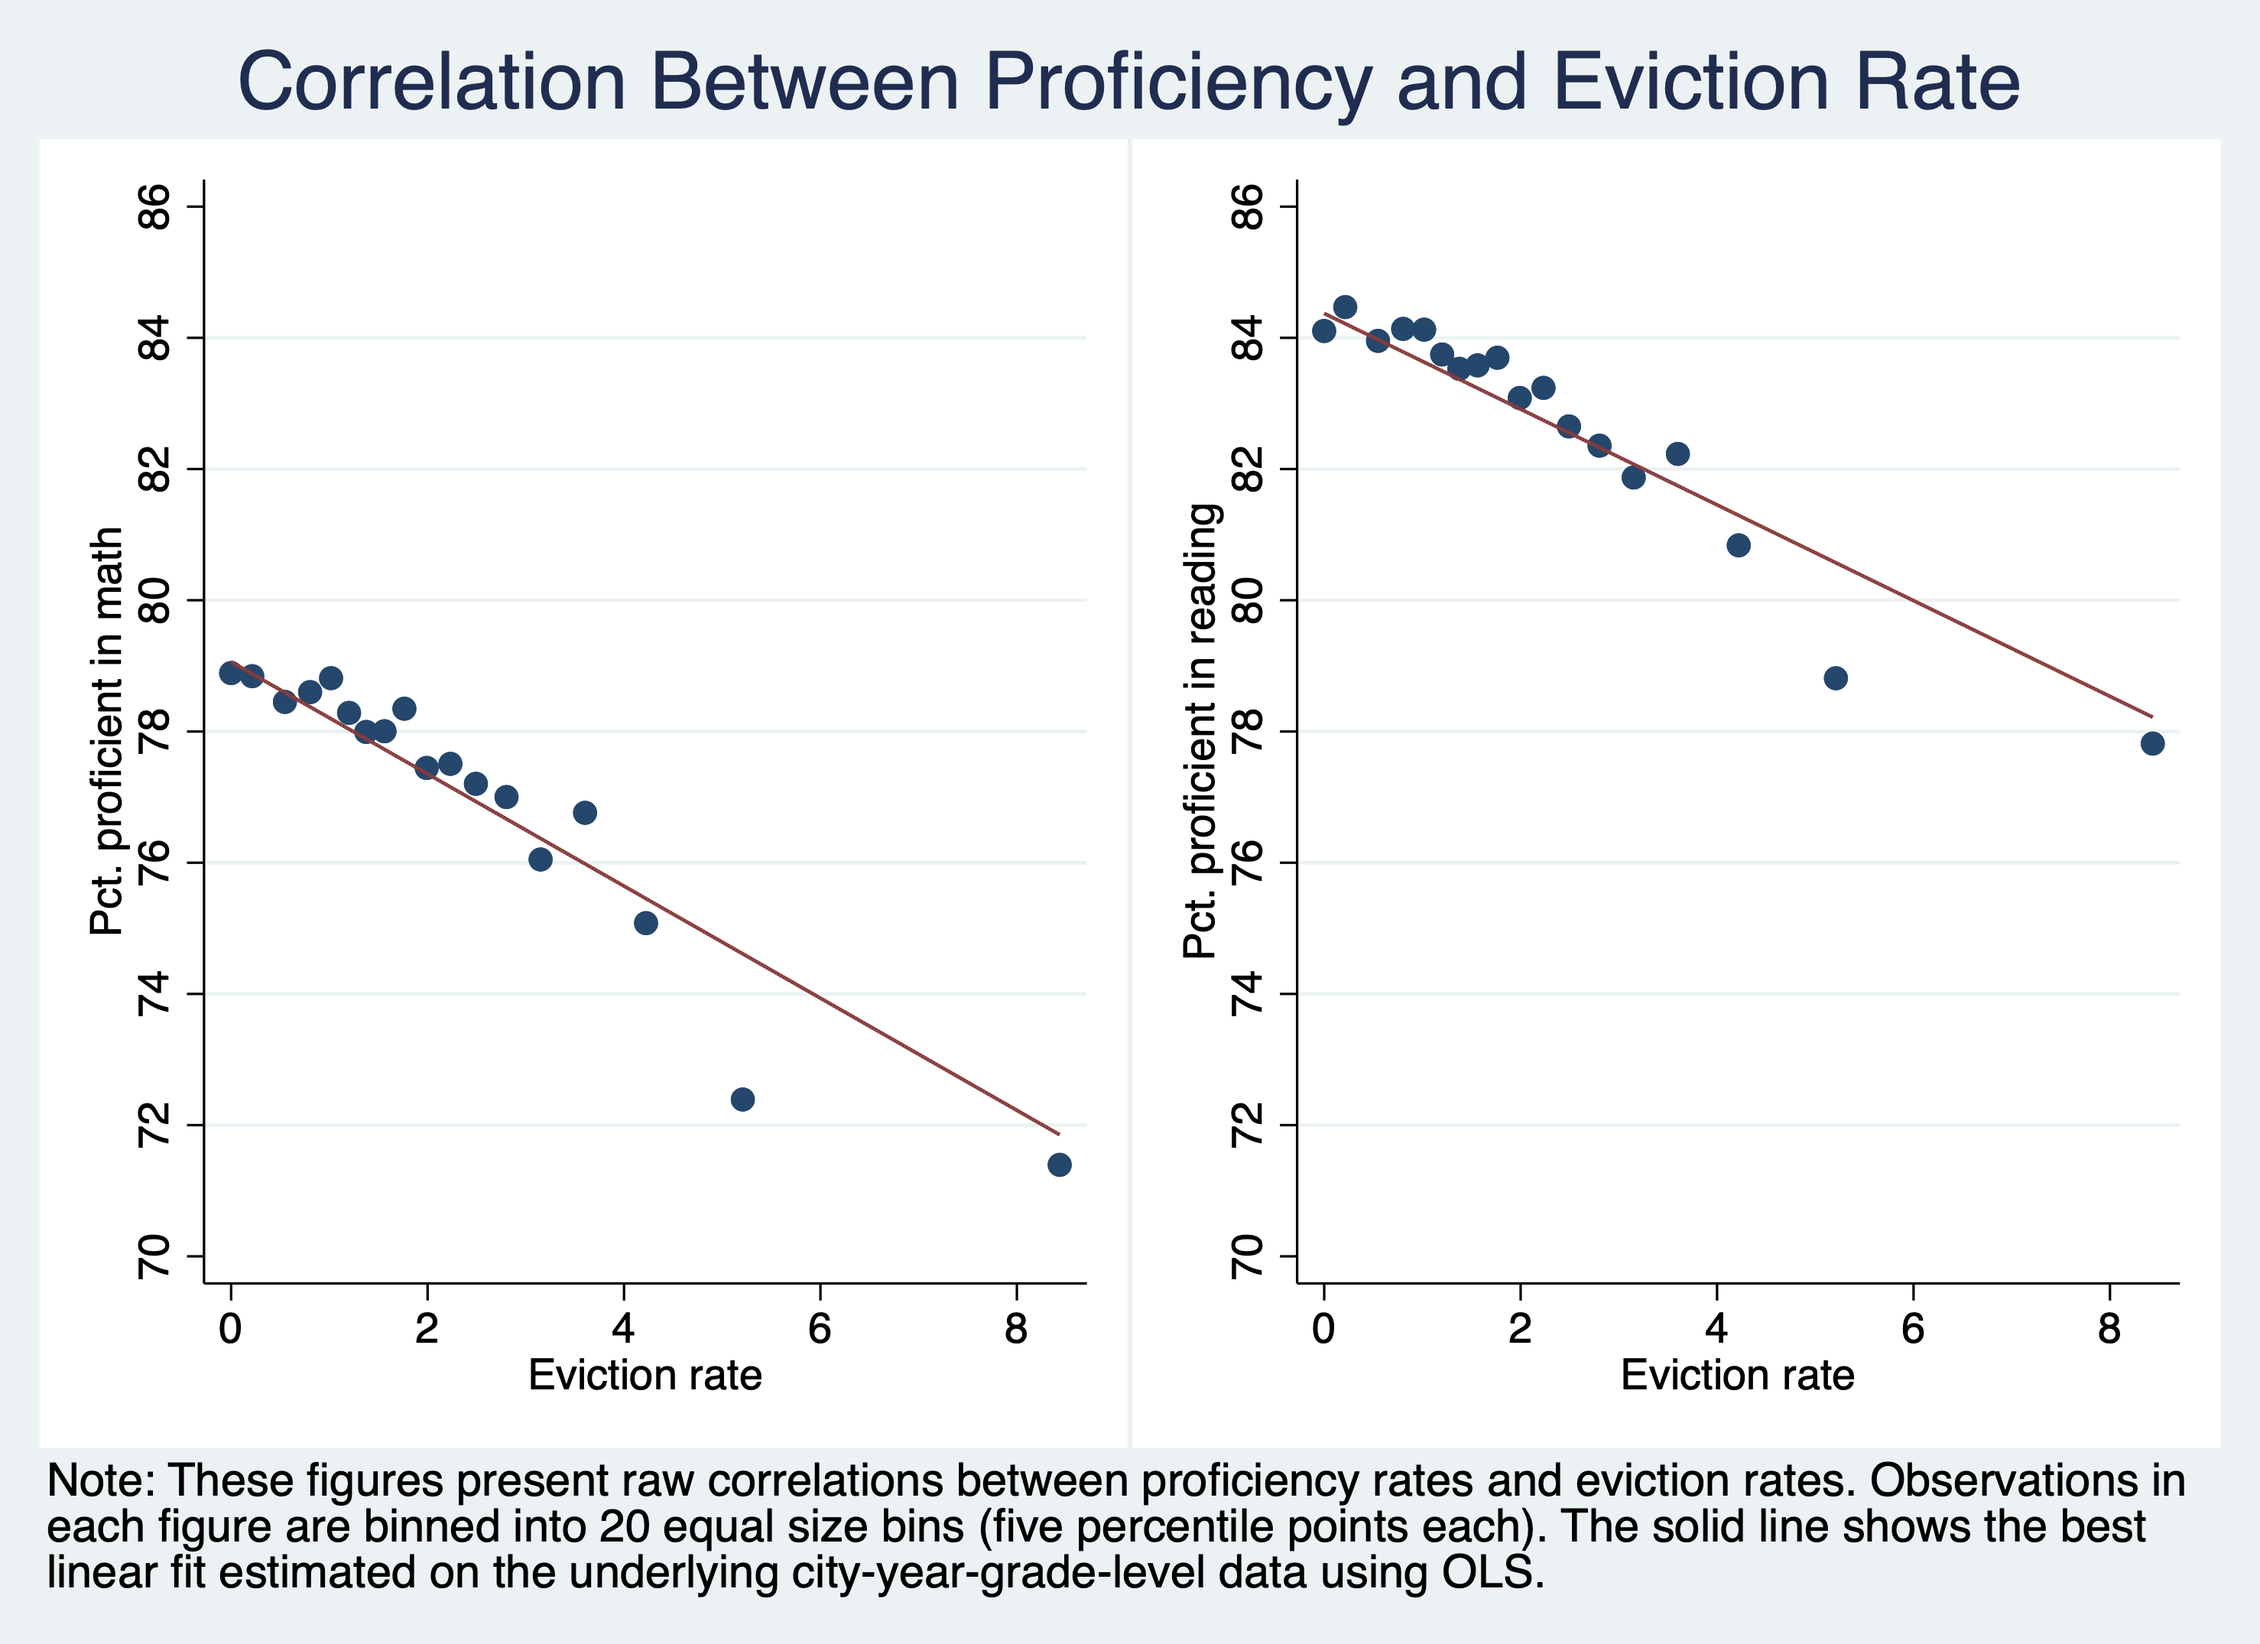
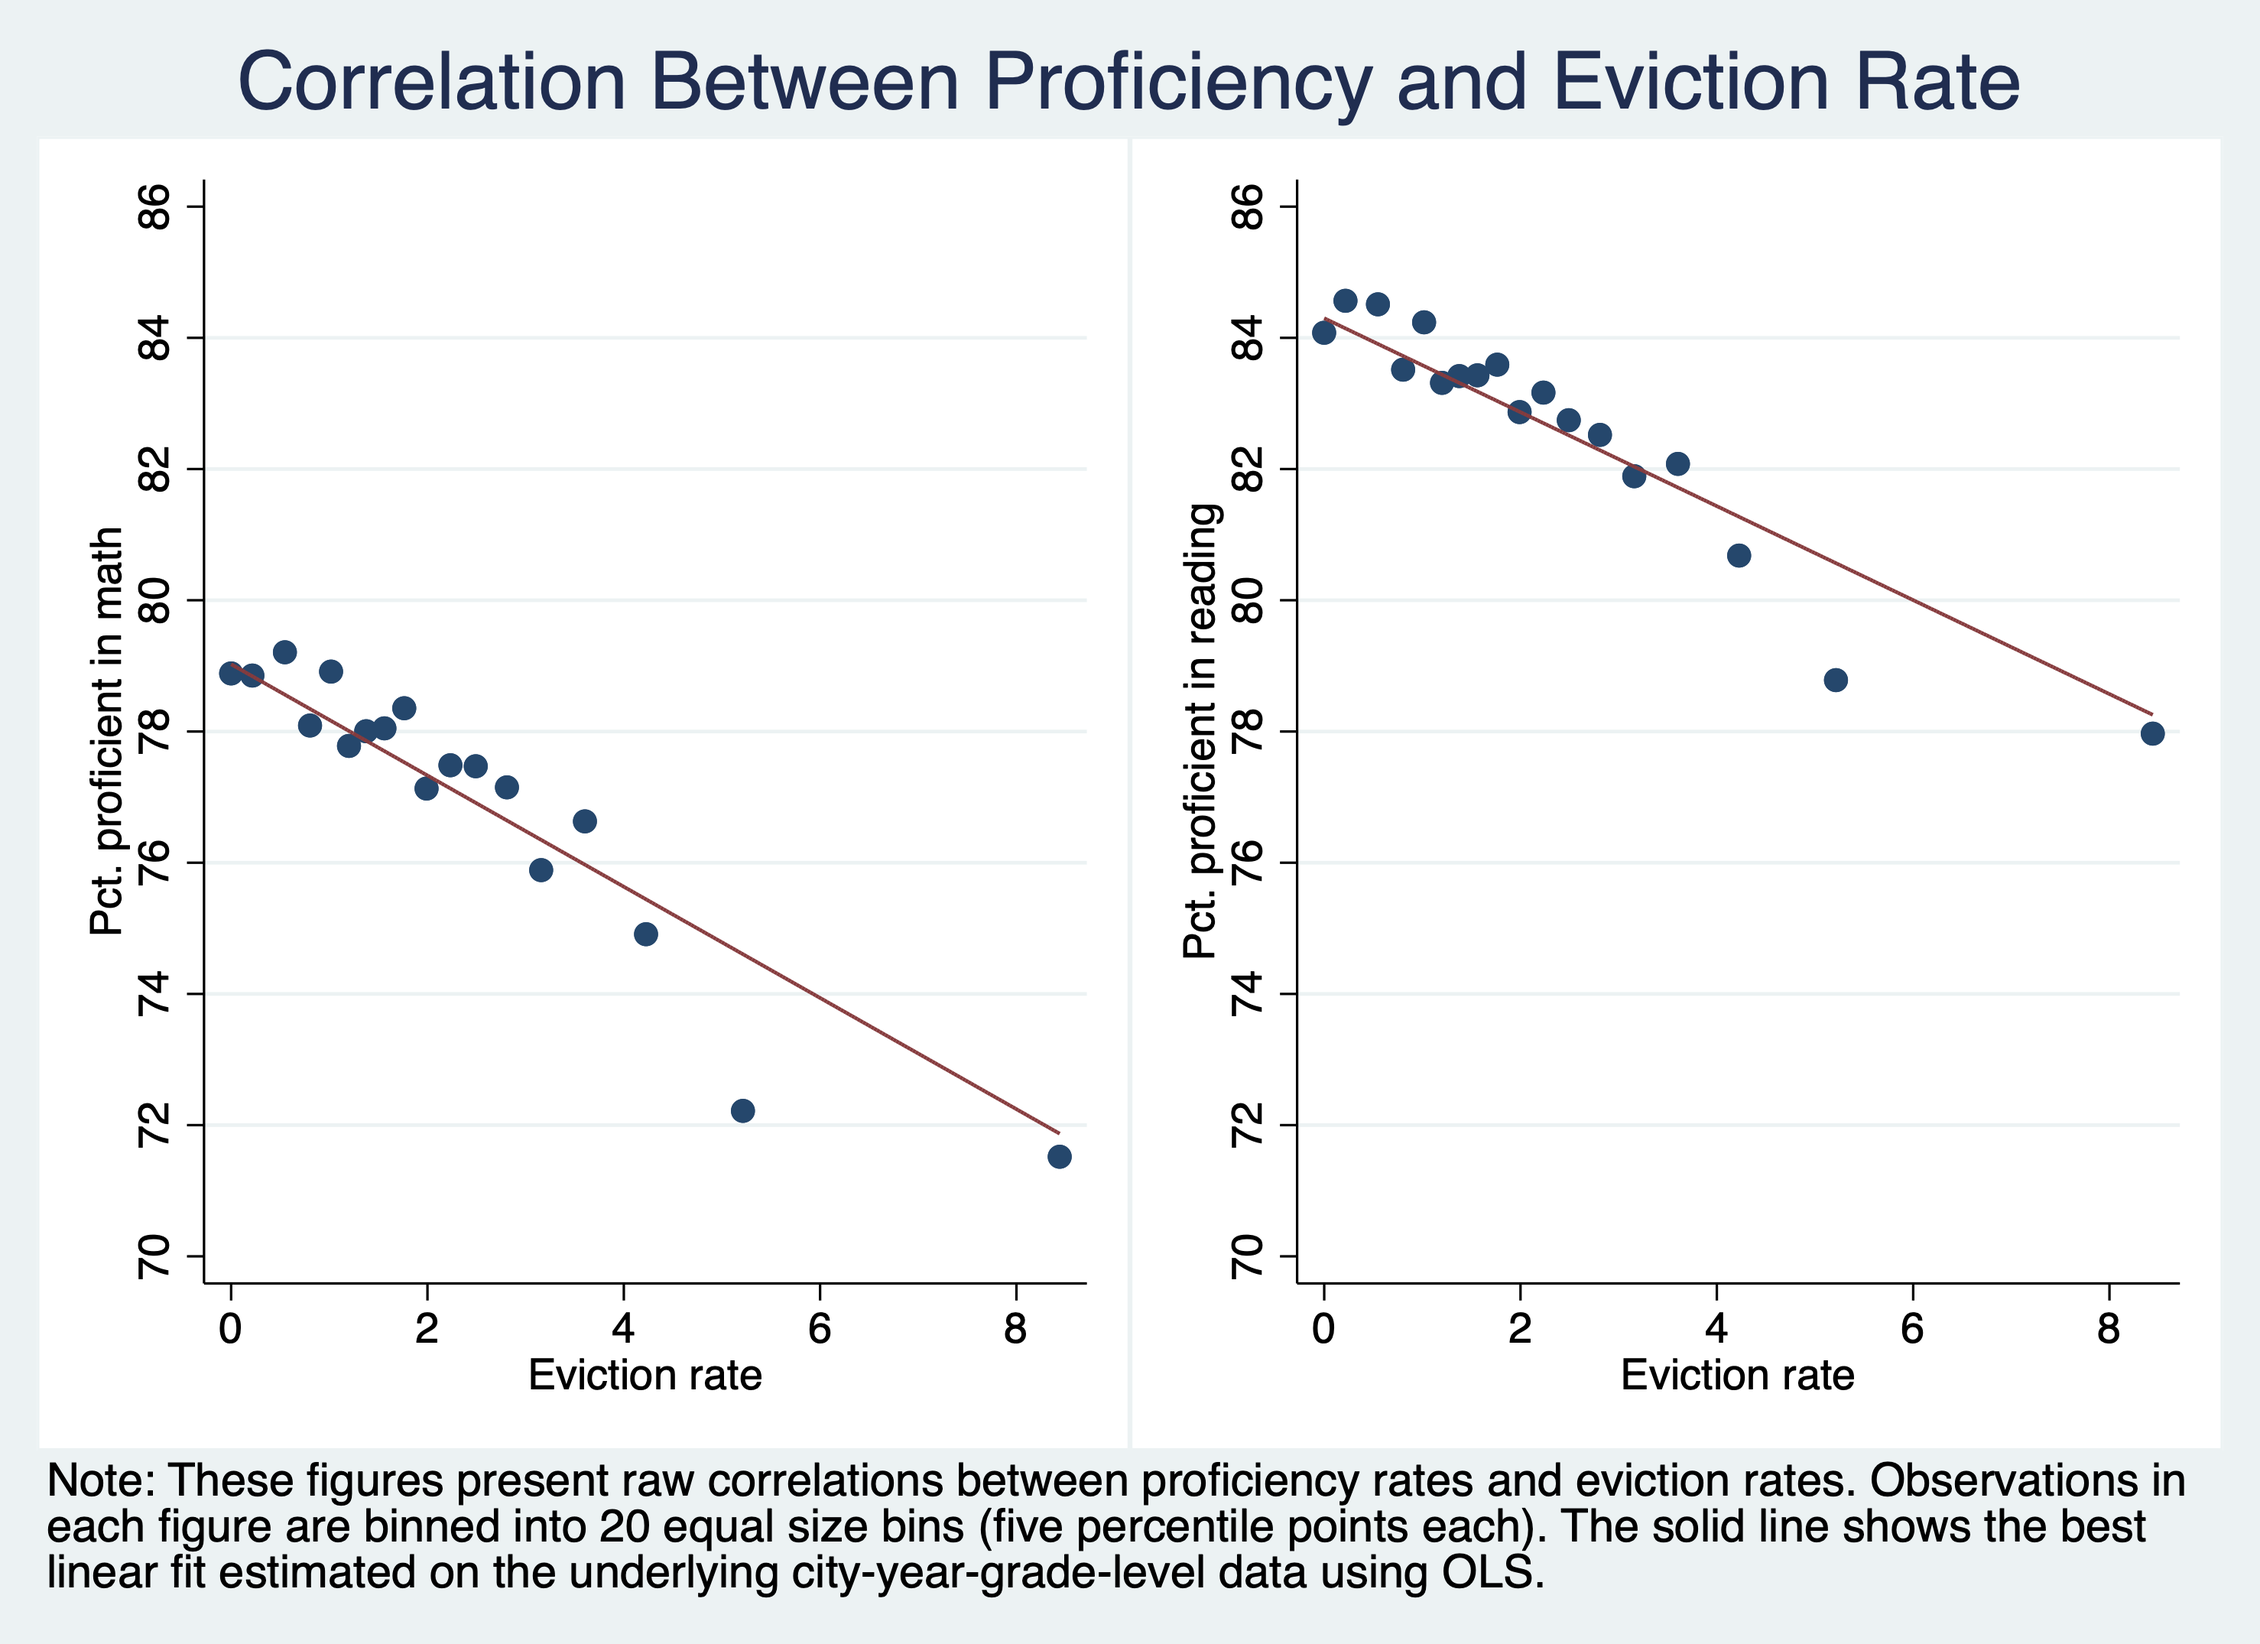
Match on following years, not current

diff --git a/output/tables/summary_stats.tex b/output/tables/summary_stats.tex
@@ -1,26 +1,12 @@
 \begin{table}[htbp]\centering
 \def\sym#1{\ifmmode^{#1}\else\(^{#1}\)\fi}
 \caption{Descriptive Statistics}
-\begin{tabular}{l*{1}{ccccc}}
+\begin{tabular}{l*{8}{ccccc}}
 \toprule
-                    &        Mean&          SD&         Min&         Max&           N\\
+                    &        Mean&          SD&         Min&         Max&           N&        Mean&          SD&         Min&         Max&           N&        Mean&          SD&         Min&         Max&           N&        Mean&          SD&         Min&         Max&           N&        Mean&          SD&         Min&         Max&           N&        Mean&          SD&         Min&         Max&           N&        Mean&          SD&         Min&         Max&           N&        Mean&          SD&         Min&         Max&           N\\
 \midrule
-\emph{Dependent variables}&            &            &            &            &            \\
-\hspace{0.25cm} Pct. proficient in math&       77.25&       12.53&        1.50&      100.00&       66873\\
-\hspace{0.25cm} Pct. proficient in reading&       82.82&        9.81&        8.30&      100.00&       66880\\
-\vspace{0.1em} \\ \emph{Independent variable of interest}&            &            &            &            &            \\
-\hspace{0.25cm} Eviction rate&        2.13&        2.14&        0.00&       26.83&       66882\\
-\vspace{0.1em} \\ \emph{Control variables}&            &            &            &            &            \\
-\hspace{0.25cm} Grade year&           6&           2&           3&           8&       66882\\
-\hspace{0.25cm} Median household income&    49542.87&    21974.85&     2499.00&   250001.00&       65646\\
-\hspace{0.25cm} Median property value&   119605.26&    76161.90&     9999.00&  1157600.00&       65862\\
-\hspace{0.25cm} Pct. renter-occupied&       28.04&       14.23&        0.00&      100.00&       66882\\
-\hspace{0.25cm} Pct. white&       91.06&       13.29&        0.00&      100.00&       66882\\
-\hspace{0.25cm} Pct. with bachelor's degree&        5.22&        6.64&        0.00&       86.23&       66822\\
-\hspace{0.25cm} Poverty rate&       10.78&        9.61&        0.00&      100.00&       66882\\
-\hspace{0.25cm} Year&        2011&           3&        2006&        2015&       66882\\
 \bottomrule
-\multicolumn{6}{l}{\footnotesize Note: This table presents descriptive statistics for the sample. Descriptive statistics for \emph{Grade year} and}\\
-\multicolumn{6}{l}{\footnotesize \emph{Year} are truncated to have zero decimal places.}\\
+\multicolumn{41}{l}{\footnotesize Note: This table presents descriptive statistics for the sample. Descriptive statistics for \emph{Grade year} and}\\
+\multicolumn{41}{l}{\footnotesize \emph{Year} are truncated to have zero decimal places.}\\
 \end{tabular}
 \end{table}

diff --git a/output/tables/diverse_regressions.tex b/output/tables/diverse_regressions.tex
@@ -7,12 +7,12 @@
                     &\multicolumn{1}{c}{(1)}&\multicolumn{1}{c}{(2)}&\multicolumn{1}{c}{(3)}&\multicolumn{1}{c}{(4)}&\multicolumn{1}{c}{(5)}&\multicolumn{1}{c}{(6)}&\multicolumn{1}{c}{(7)}&\multicolumn{1}{c}{(8)}\\
                     &        b/se&        b/se&        b/se&        b/se&        b/se&        b/se&        b/se&        b/se\\
 \midrule
-Eviction rate       &      -0.062&      -0.139&      -0.139&      -0.127&       0.015&      -0.074&      -0.074&      -0.062\\
-                    &      (0.06)&      (0.05)&      (0.05)&      (0.04)&      (0.05)&      (0.04)&      (0.04)&      (0.03)\\
+Eviction rate       &       0.001&       0.011&       0.012&       0.015&       0.032&       0.040&       0.041&       0.041\\
+                    &      (0.03)&      (0.03)&      (0.03)&      (0.03)&      (0.03)&      (0.03)&      (0.03)&      (0.03)\\
 \midrule
-Observations        &       33397&       33397&       33397&       32701&       33402&       33402&       33402&       32706\\
+Observations        &       30068&       30068&       30068&       29436&       30075&       30075&       30075&       29443\\
 Number of clusters  &         793&         793&         793&         777&         793&         793&         793&         777\\
-$\text{R}^2$        &       0.543&       0.624&       0.722&       0.726&       0.555&       0.655&       0.721&       0.725\\
+$\text{R}^2$        &       0.543&       0.545&       0.651&       0.654&       0.568&       0.569&       0.634&       0.638\\
 Place F.E.          &         Yes&         Yes&         Yes&         Yes&         Yes&         Yes&         Yes&         Yes\\
 Year F.E.           &          No&         Yes&         Yes&         Yes&          No&         Yes&         Yes&         Yes\\
 Grade F.E.          &          No&          No&         Yes&         Yes&          No&          No&         Yes&         Yes\\

diff --git a/output/tables/main_regressions.tex b/output/tables/main_regressions.tex
@@ -7,12 +7,12 @@
                     &\multicolumn{1}{c}{(1)}&\multicolumn{1}{c}{(2)}&\multicolumn{1}{c}{(3)}&\multicolumn{1}{c}{(4)}&\multicolumn{1}{c}{(5)}&\multicolumn{1}{c}{(6)}&\multicolumn{1}{c}{(7)}&\multicolumn{1}{c}{(8)}\\
                     &        b/se&        b/se&        b/se&        b/se&        b/se&        b/se&        b/se&        b/se\\
 \midrule
-Eviction rate       &       0.016&      -0.065&      -0.065&      -0.064&       0.031&      -0.037&      -0.037&      -0.030\\
-                    &      (0.04)&      (0.03)&      (0.03)&      (0.03)&      (0.03)&      (0.02)&      (0.02)&      (0.02)\\
+Eviction rate       &      -0.002&       0.008&       0.008&       0.007&       0.038&       0.044&       0.044&       0.042\\
+                    &      (0.02)&      (0.02)&      (0.02)&      (0.02)&      (0.02)&      (0.02)&      (0.02)&      (0.02)\\
 \midrule
-Observations        &       66873&       66873&       66873&       65073&       66880&       66880&       66880&       65080\\
+Observations        &       60188&       60188&       60188&       58560&       60196&       60196&       60196&       58568\\
 Number of clusters  &        1189&        1189&        1189&        1184&        1189&        1189&        1189&        1184\\
-$\text{R}^2$        &       0.459&       0.548&       0.659&       0.662&       0.474&       0.587&       0.660&       0.663\\
+$\text{R}^2$        &       0.460&       0.461&       0.578&       0.580&       0.481&       0.482&       0.555&       0.558\\
 Place F.E.          &         Yes&         Yes&         Yes&         Yes&         Yes&         Yes&         Yes&         Yes\\
 Year F.E.           &          No&         Yes&         Yes&         Yes&          No&         Yes&         Yes&         Yes\\
 Grade F.E.          &          No&          No&         Yes&         Yes&          No&          No&         Yes&         Yes\\

diff --git a/output/tables/non_diverse_regressions.tex b/output/tables/non_diverse_regressions.tex
@@ -7,12 +7,12 @@
                     &\multicolumn{1}{c}{(1)}&\multicolumn{1}{c}{(2)}&\multicolumn{1}{c}{(3)}&\multicolumn{1}{c}{(4)}&\multicolumn{1}{c}{(5)}&\multicolumn{1}{c}{(6)}&\multicolumn{1}{c}{(7)}&\multicolumn{1}{c}{(8)}\\
                     &        b/se&        b/se&        b/se&        b/se&        b/se&        b/se&        b/se&        b/se\\
 \midrule
-Eviction rate       &       0.047&      -0.032&      -0.032&      -0.034&       0.018&      -0.027&      -0.027&      -0.018\\
-                    &      (0.06)&      (0.03)&      (0.03)&      (0.04)&      (0.05)&      (0.03)&      (0.03)&      (0.03)\\
+Eviction rate       &       0.005&       0.016&       0.013&       0.009&       0.044&       0.048&       0.047&       0.040\\
+                    &      (0.03)&      (0.03)&      (0.03)&      (0.03)&      (0.03)&      (0.03)&      (0.03)&      (0.03)\\
 \midrule
-Observations        &       33476&       33476&       33476&       32372&       33478&       33478&       33478&       32374\\
+Observations        &       30120&       30120&       30120&       29124&       30121&       30121&       30121&       29125\\
 Number of clusters  &         821&         821&         821&         810&         821&         821&         821&         810\\
-$\text{R}^2$        &       0.361&       0.463&       0.591&       0.591&       0.373&       0.501&       0.587&       0.588\\
+$\text{R}^2$        &       0.355&       0.357&       0.488&       0.487&       0.365&       0.367&       0.452&       0.453\\
 Place F.E.          &         Yes&         Yes&         Yes&         Yes&         Yes&         Yes&         Yes&         Yes\\
 Year F.E.           &          No&         Yes&         Yes&         Yes&          No&         Yes&         Yes&         Yes\\
 Grade F.E.          &          No&          No&         Yes&         Yes&          No&          No&         Yes&         Yes\\
